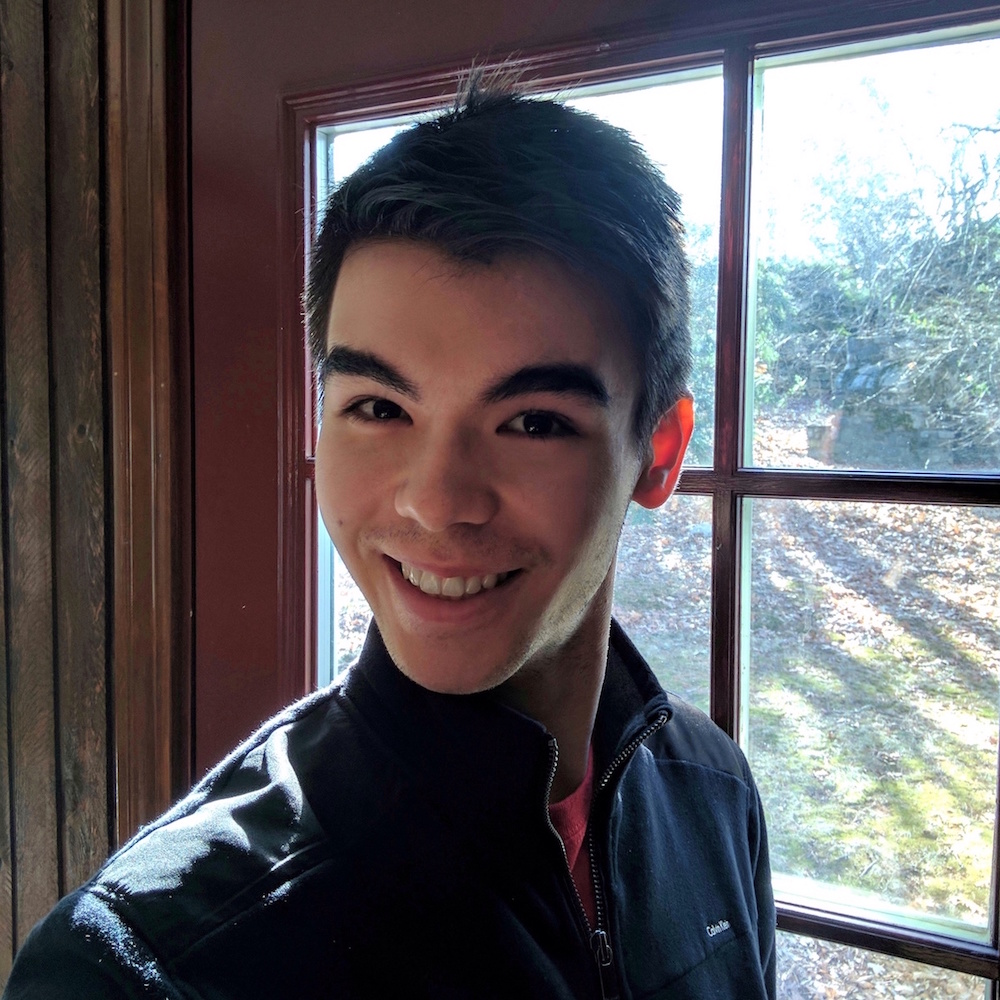
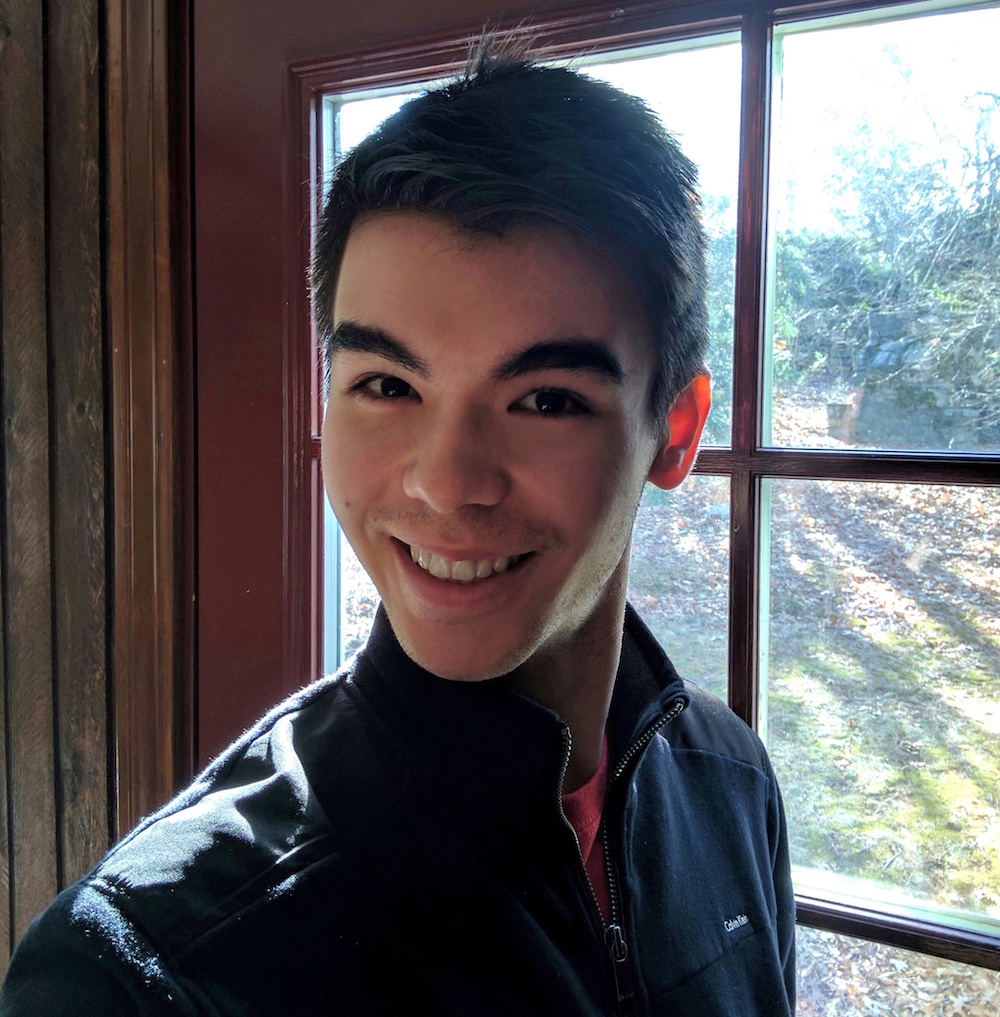
Finishes adding descriptions to all projects
- Also adds BU Food Tracker to the list of projects.
- Slightly changes the cropping on my profile picture.

diff --git a/index.html b/index.html
@@ -92,7 +92,7 @@
             <p>I am a first-year computer science major at Boston University, but I have been passionate about technology
               for as long as I can remember. Over the past five years I have enjoyed opportunities teaching children to code,
               researching cutting-edge technology at Harvard, and engineering personal DIY gadgets. These days I am working as
-              the programming leader for a non-profit organization, the Fenway Victory Gardens.
+              the programming lead for a non-profit organization, the Fenway Victory Gardens.
             </p>
 
             <div class="row">
@@ -133,7 +133,7 @@
 
          <div class="twelve columns collapsed">
 
-            <h1>Here are some of my personal and professional projects (currently in the process of adding the rest):</h1>
+            <h1>Here are some of my personal and professional projects (currently in the process of adding more pictures):</h1>
 
             <!-- portfolio-wrapper -->
             <div id="portfolio-wrapper" class="bgrid-quarters s-bgrid-thirds cf">
@@ -163,7 +163,7 @@
                         <div class="overlay">
                            <div class="portfolio-item-meta">
           					      <h5>SnappeShop</h5>
-                              <p>Winner of the "Most Capitalist" award at BU Local Hack Day 2016</p>
+                              <p>Winner of the "Most Capitalist" award at BU Local Hack Day, Fall 2016</p>
           					   </div>
                         </div>
                      </a>
@@ -194,8 +194,8 @@
                         <img alt="" src="images/portfolio/computercode.jpeg">
                         <div class="overlay">
                            <div class="portfolio-item-meta">
-          					      <h5>Doran's Bot</h5>
-                              <p>Chatbot for Discord servers that provides useful information for gamers. Personal project, Spring 2016</p>
+          					      <h5>Fenway Victory Gardens Companion App</h5>
+                              <p>Non-profit mobile app that has been in development since Fall 2016. Anticipated publishing date is late Spring 2017.</p>
           					   </div>
                         </div>
                      </a>
@@ -226,8 +226,8 @@
                         <img alt="" src="images/portfolio/computercode.jpeg">
                         <div class="overlay">
                            <div class="portfolio-item-meta">
-          					      <h5>Fenway Victory Gardens Companion App</h5>
-                              <p>Non-profit iOS app currently in development.</p>
+          					      <h5>Doran's Bot</h5>
+                              <p>Chatbot for Discord servers that provides useful information for gamers. Personal project, Spring 2016</p>
           					   </div>
                         </div>
                      </a>
@@ -235,21 +235,21 @@
                   </div>
           		</div> <!-- item end -->
 
-               <!-- <div class="columns portfolio-item">
+               <div class="columns portfolio-item">
                   <div class="item-wrap">
 
                      <a href="#modal-07" title="">
-                        <img alt="" src="images/portfolio/computercode.jpeg">
+                        <img alt="" src="images/portfolio/foodtracker.png">
                         <div class="overlay">
                            <div class="portfolio-item-meta">
-          					      <h5>Project 7</h5>
-                              <p>Coming soon!</p>
+          					      <h5>BU Food Tracker</h5>
+                              <p>Simple text-based Python program that gives you advice about your BU meal plan. Personal project, Fall 2016</p>
           					   </div>
                         </div>
                      </a>
 
                   </div>
-          		</div>--> <!-- item end -->
+          		</div> <!-- item end -->
 
                <!-- <div class="columns portfolio-item">
                   <div class="item-wrap">
@@ -285,7 +285,8 @@
                explores a new method of CPU parallelization. Rather than the traditional approach of compiling sequential programs into parallel programs
                at runtime, CPUs utilizing ASC execute sequential programs on a single CPU core and use any remaining CPU resources to predict and proactively
                execute future parts of the sequential program. <br><br>
-               In my senior year of high school I developed code for ASC that parses and visualizes data generated by CPUs at execution time.
+
+               I developed code for ASC in my senior year of high school that parses and visualizes data generated by CPUs at execution time.
                My parsed data was used for efficiency analysis by other members of the project.
                I wrote my code using a Python 3.4 distribution with Numpy and SciPy packages, and also published a 32-page thesis on Amazon
                describing my work.</p>
@@ -331,8 +332,8 @@
 			      <h4>Magic Mirror</h4>
 			      <p>Over the summer of 2016, I designed and built a computer-powered magic mirror out of a Raspberry Pi,
                a 27" monitor, a two-way mirror, and a lot of pine boards. The enclosure is 16" x 26.25" with ventilation
-               holes on its top and bottom. The mirror runs on Raspbian OS and uses a customized version of Michael Teeuw's MagicMirror<sup>2</sup>
-               software to display info widgets. This mirror has been my favorite project so far!
+               holes on its top and bottom sides. The mirror runs on Raspbian OS and uses a customized version of Michael Teeuw's MagicMirror<sup>2</sup>
+               software to display info widgets. This has been my favorite personal project so far!
              </p>
 		      </div>
 
@@ -349,17 +350,21 @@
 		      <img class="scale-with-grid" src="images/portfolio/modals/m-computercode.jpeg" alt="" />
 
 		      <div class="description-box">
-			      <h4>Doran's Bot</h4>
-			      <p>I and a classmate from high school programmed a chatbot for the popular communication service Discord,
-               nicknamed "Doran's Bot." Our bot fetches and displays live information about League of Legends games,
-               such as profile statistics, champion winrates, and player availability.<br><br>
+			      <h4>Fenway Victory Gardens Companion App</h4>
+            <p>The Fenway Victory Gardens are the oldest continuously operating WWII Victory Gardens in the US.
+               The Global App Initiative at BU has tasked about twenty of its members with developing an Android
+               and an iOS companion app for the gardens. The goal of these apps is to keep gardeners informed about
+               the upcoming events and the available resources in the Victory Gardens.<br><br>
 
-               The bot was written in Python 3.5 and uses several web APIs to collect its data.</p>
+               I am currently the programming lead for the iOS development team. Our app will deal with dynamically
+               produced user data and utilize the Google Calendar API. We expect to publish our app in Q2 2017.</p>
 		      </div>
 
             <div class="link-box">
-               <a href="https://github.com/Warren-Partridge/Discord-Chatbot"> <i class="fa fa-github"></i> GitHub page</a>
-		           <a class="popup-modal-dismiss">Close</a>
+              <a href="https://github.com/lkwatson/fenway-ios"> <i class="fa fa-github"></i> GitHub page</a>
+              <a href="http://fenwayvictorygardens.org/"><i class="fa fa-link"></i> Gardens website</a>
+              <a href="http:/www.globalappinitiative.org/"><i class="fa fa-link"></i> GAI website</a>
+              <a class="popup-modal-dismiss">Close</a>
             </div>
 
 	      </div><!-- modal-04 End -->
@@ -372,13 +377,12 @@
 			      <h4>Zero-Gravity Game</h4>
 			      <p>I and a classmate from high school programmed a physics-based dueling game inspired by the training sequences
                in Orson Scott Card's "Ender's Game." In it, a player and a computer-controlled enemy shoot projectiles at each
-               other in a two-dimensional zero-gravity arena.<br><br>
-
-               The duelists are not able to directly affect their positions in the arena. They can only move themselves by
+               other in a two-dimensional zero-gravity arena. The duelists are not able to directly affect their positions in the arena. They can only move themselves by
                generating momentum. Momentum is generated through firing projectiles and shooting magnetic grappling hooks
                at arena terrain. <br><br>
 
-               This game was written in GML 1.4.</p>
+               I implemented several features of the game including its navigation menu, basic projectile physics, and grappling hook.
+               The game was written in GML 1.4.</p>
 		      </div>
 
             <div class="link-box">
@@ -393,40 +397,41 @@
 		      <img class="scale-with-grid" src="images/portfolio/modals/m-computercode.jpeg" alt="" />
 
 		      <div class="description-box">
-			      <h4>Fenway Victory Gardens Companion App</h4>
-			      <p>The Fenway Victory Gardens are the oldest continuously operating WWII Victory Gardens in the US.
-               The Global App Initiative at BU has tasked about twenty of its members with developing an Android
-               and an iOS companion app for the gardens. The goal of these apps is to keep gardeners informed about
-               the upcoming events and the available resources in the Victory Gardens.<br><br>
+			      <h4>Doran's Bot</h4>
+            <p>I and a classmate from high school programmed a chatbot for the popular communication service Discord,
+               nicknamed "Doran's Bot." Our bot fetches and displays live information about League of Legends games,
+               such as profile statistics, champion winrates, and player availability.<br><br>
 
-               I am currently the programming lead for the iOS development team. Our app will deal with dynamically
-               produced user data and utilize the Google Calendar API. We expect to publish our app in Q2 2017.</p>
+               The bot was written in Python 3.5 and uses several web APIs to collect its data.</p>
 		      </div>
 
             <div class="link-box">
-              <a href="https://github.com/lkwatson/fenway-ios"> <i class="fa fa-github"></i> GitHub page</a>
-              <a href="http://fenwayvictorygardens.org/"><i class="fa fa-link"></i> Gardens website</a>
-              <a href="http:/www.globalappinitiative.org/"><i class="fa fa-link"></i> GAI website</a>
-		           <a class="popup-modal-dismiss">Close</a>
+              <a href="https://github.com/Warren-Partridge/Discord-Chatbot"> <i class="fa fa-github"></i> GitHub page</a>
+              <a class="popup-modal-dismiss">Close</a>
             </div>
 
-	      </div><!-- modal-06 End --> <!--
+	      </div><!-- modal-06 End -->
 
          <div id="modal-07" class="popup-modal mfp-hide">
 
-		      <img class="scale-with-grid" src="images/portfolio/modals/m-computercode.jpeg" alt="" />
+		      <img class="scale-with-grid" src="images/portfolio/modals/m-foodtracker.png" alt="" />
 
 		      <div class="description-box">
-			      <h4>Project 7</h4>
-			      <p>Proin gravida nibh vel velit auctor aliquet. Aenean sollicitudin, lorem quis bibendum auctor, nisi elit consequat ipsum, nec sagittis sem nibh id elit.</p>
+			      <h4>BU Food Tracker</h4>
+			      <p>Five out of the six dining plans at Boston University cost the same amount of money to enroll in. After agonizing
+               over which plan I should choose for about an hour, I gave up and began writing a food tracker app to calculate
+               which one I should choose. The result was this app, which returns information about the optimal number of meal swipes
+               and dining dollars to use per day using a certain plan. The app took about a week to code.<br><br>
+
+               It is written in Python 3.5 and uses the datetime module to evaluate differences between dates.</p>
 		      </div>
 
             <div class="link-box">
-               <a href="#">Details</a>
+               <a href="https://github.com/Warren-Partridge/BU-Food-Tracker"> <i class="fa fa-github"></i> GitHub page</a>
 		           <a class="popup-modal-dismiss">Close</a>
             </div>
 
-	      </div>--> <!-- modal-07 End --> <!--
+	      </div> <!-- modal-07 End --> <!--
 
          <div id="modal-08" class="popup-modal mfp-hide">
 
